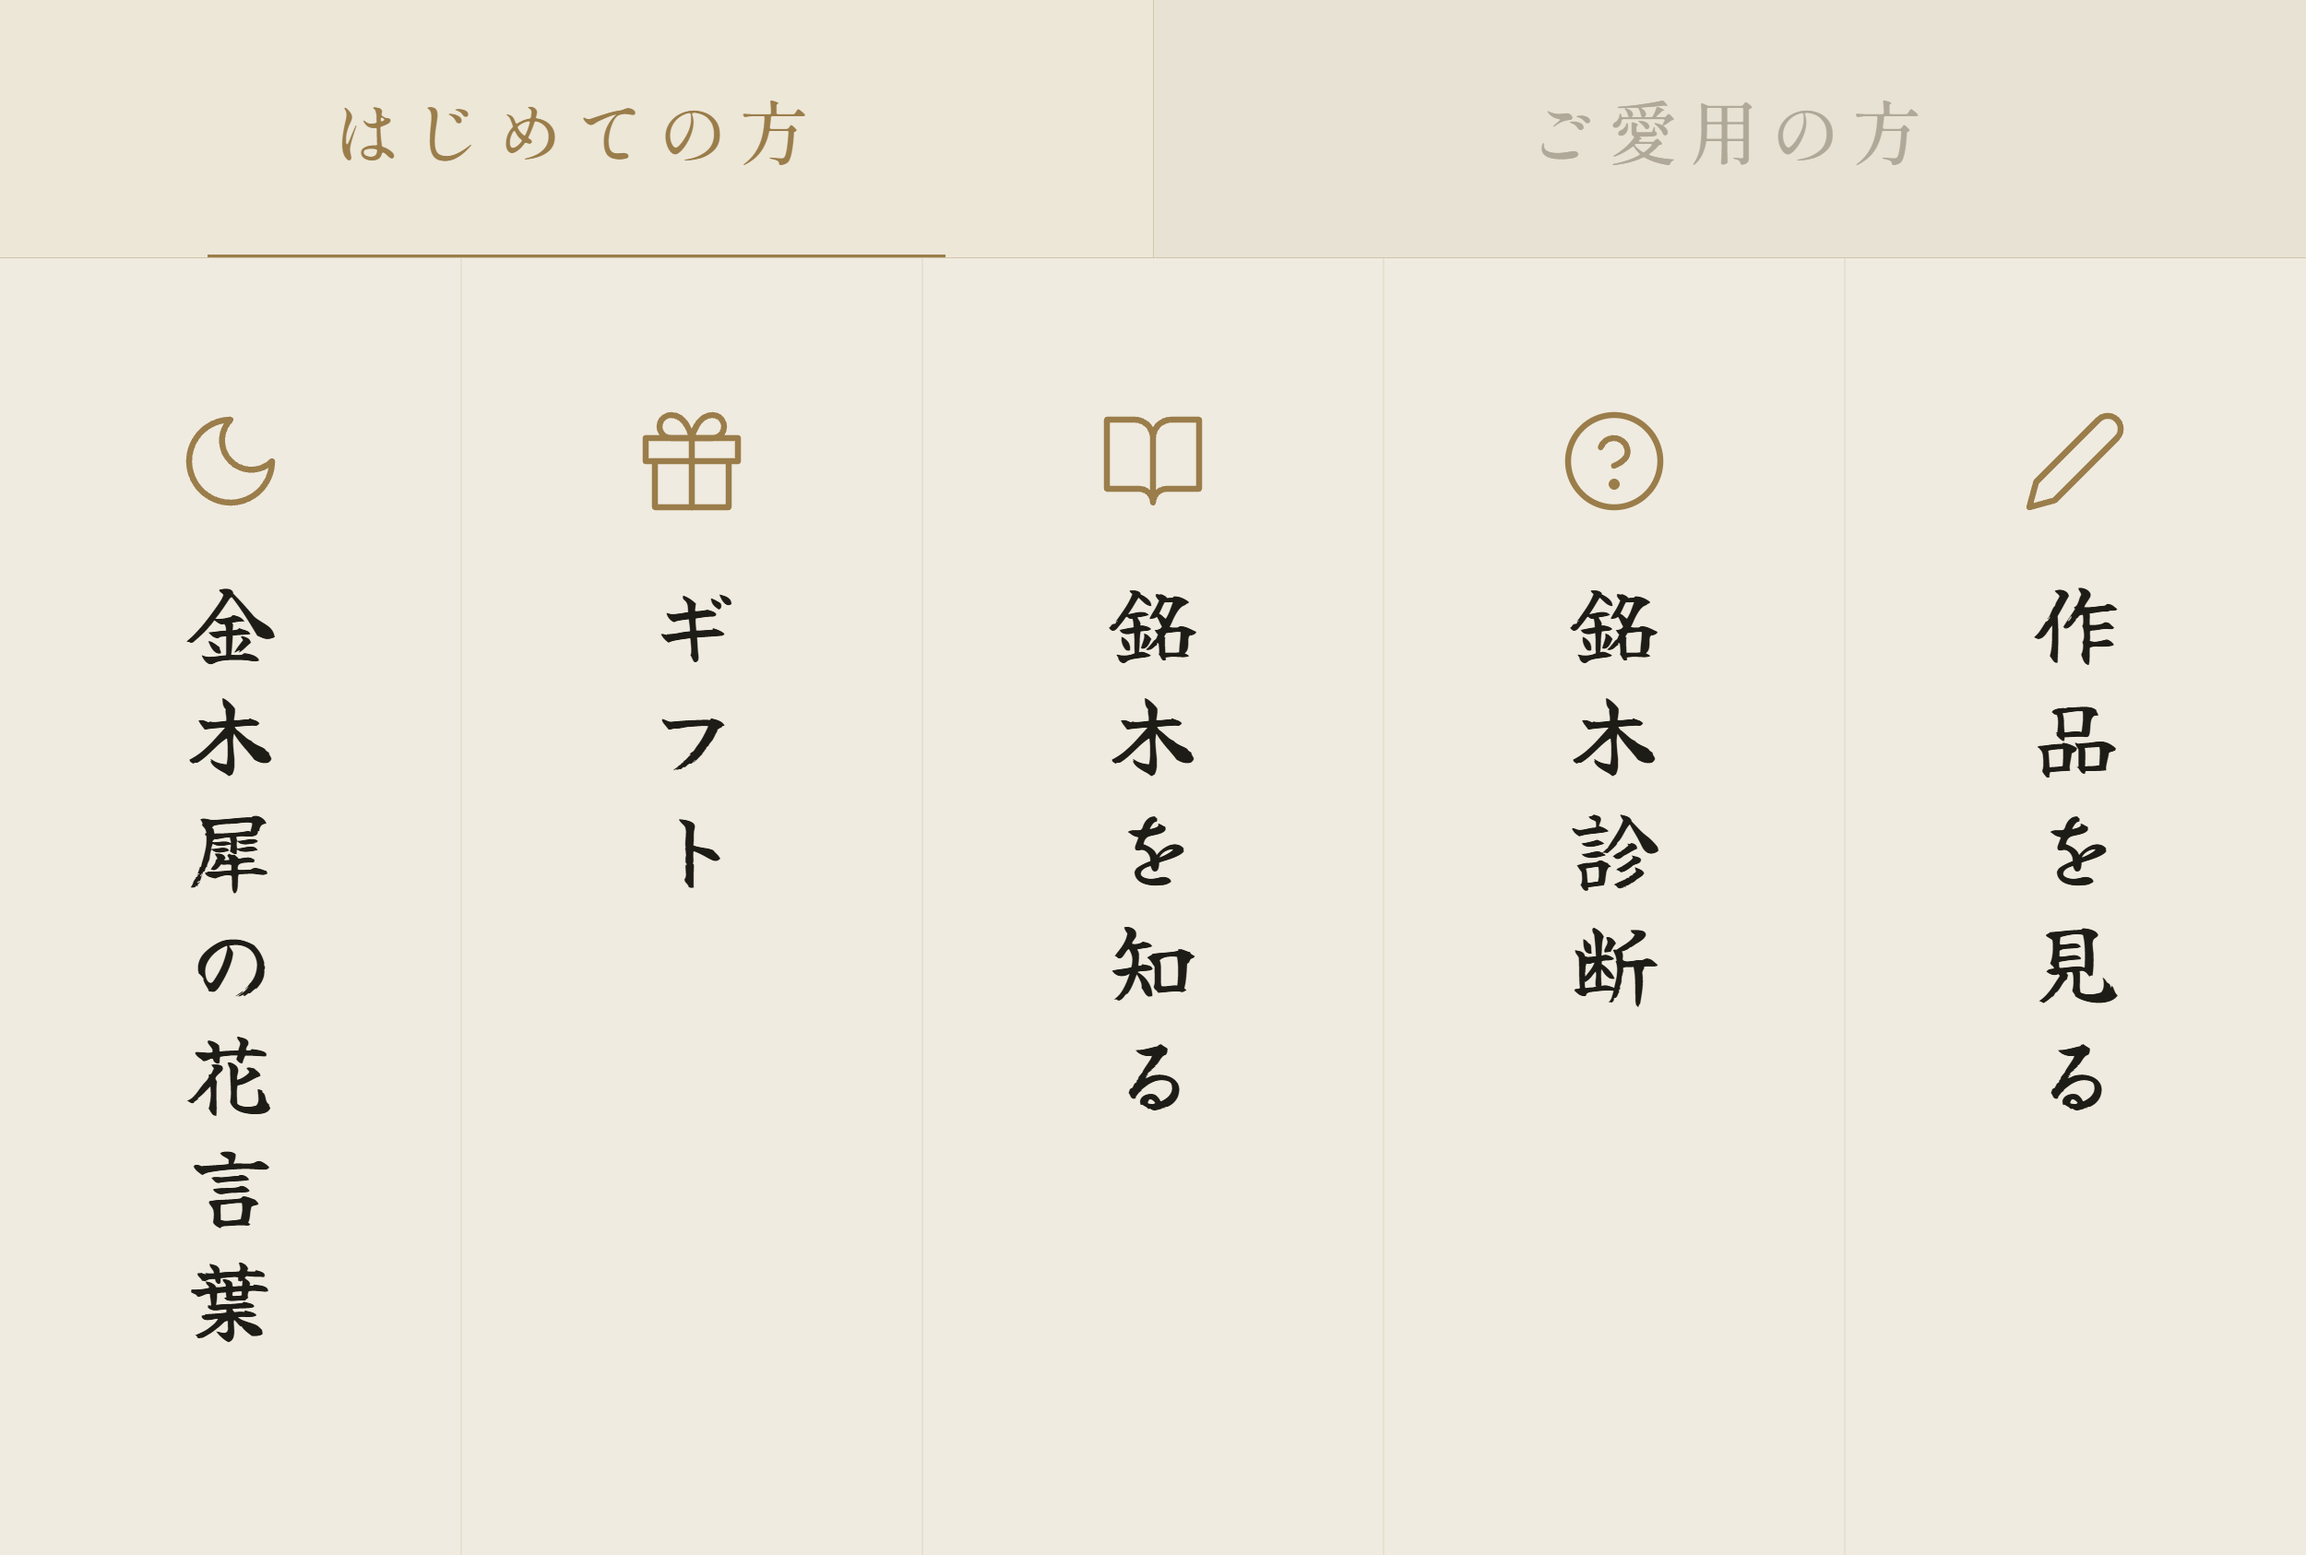
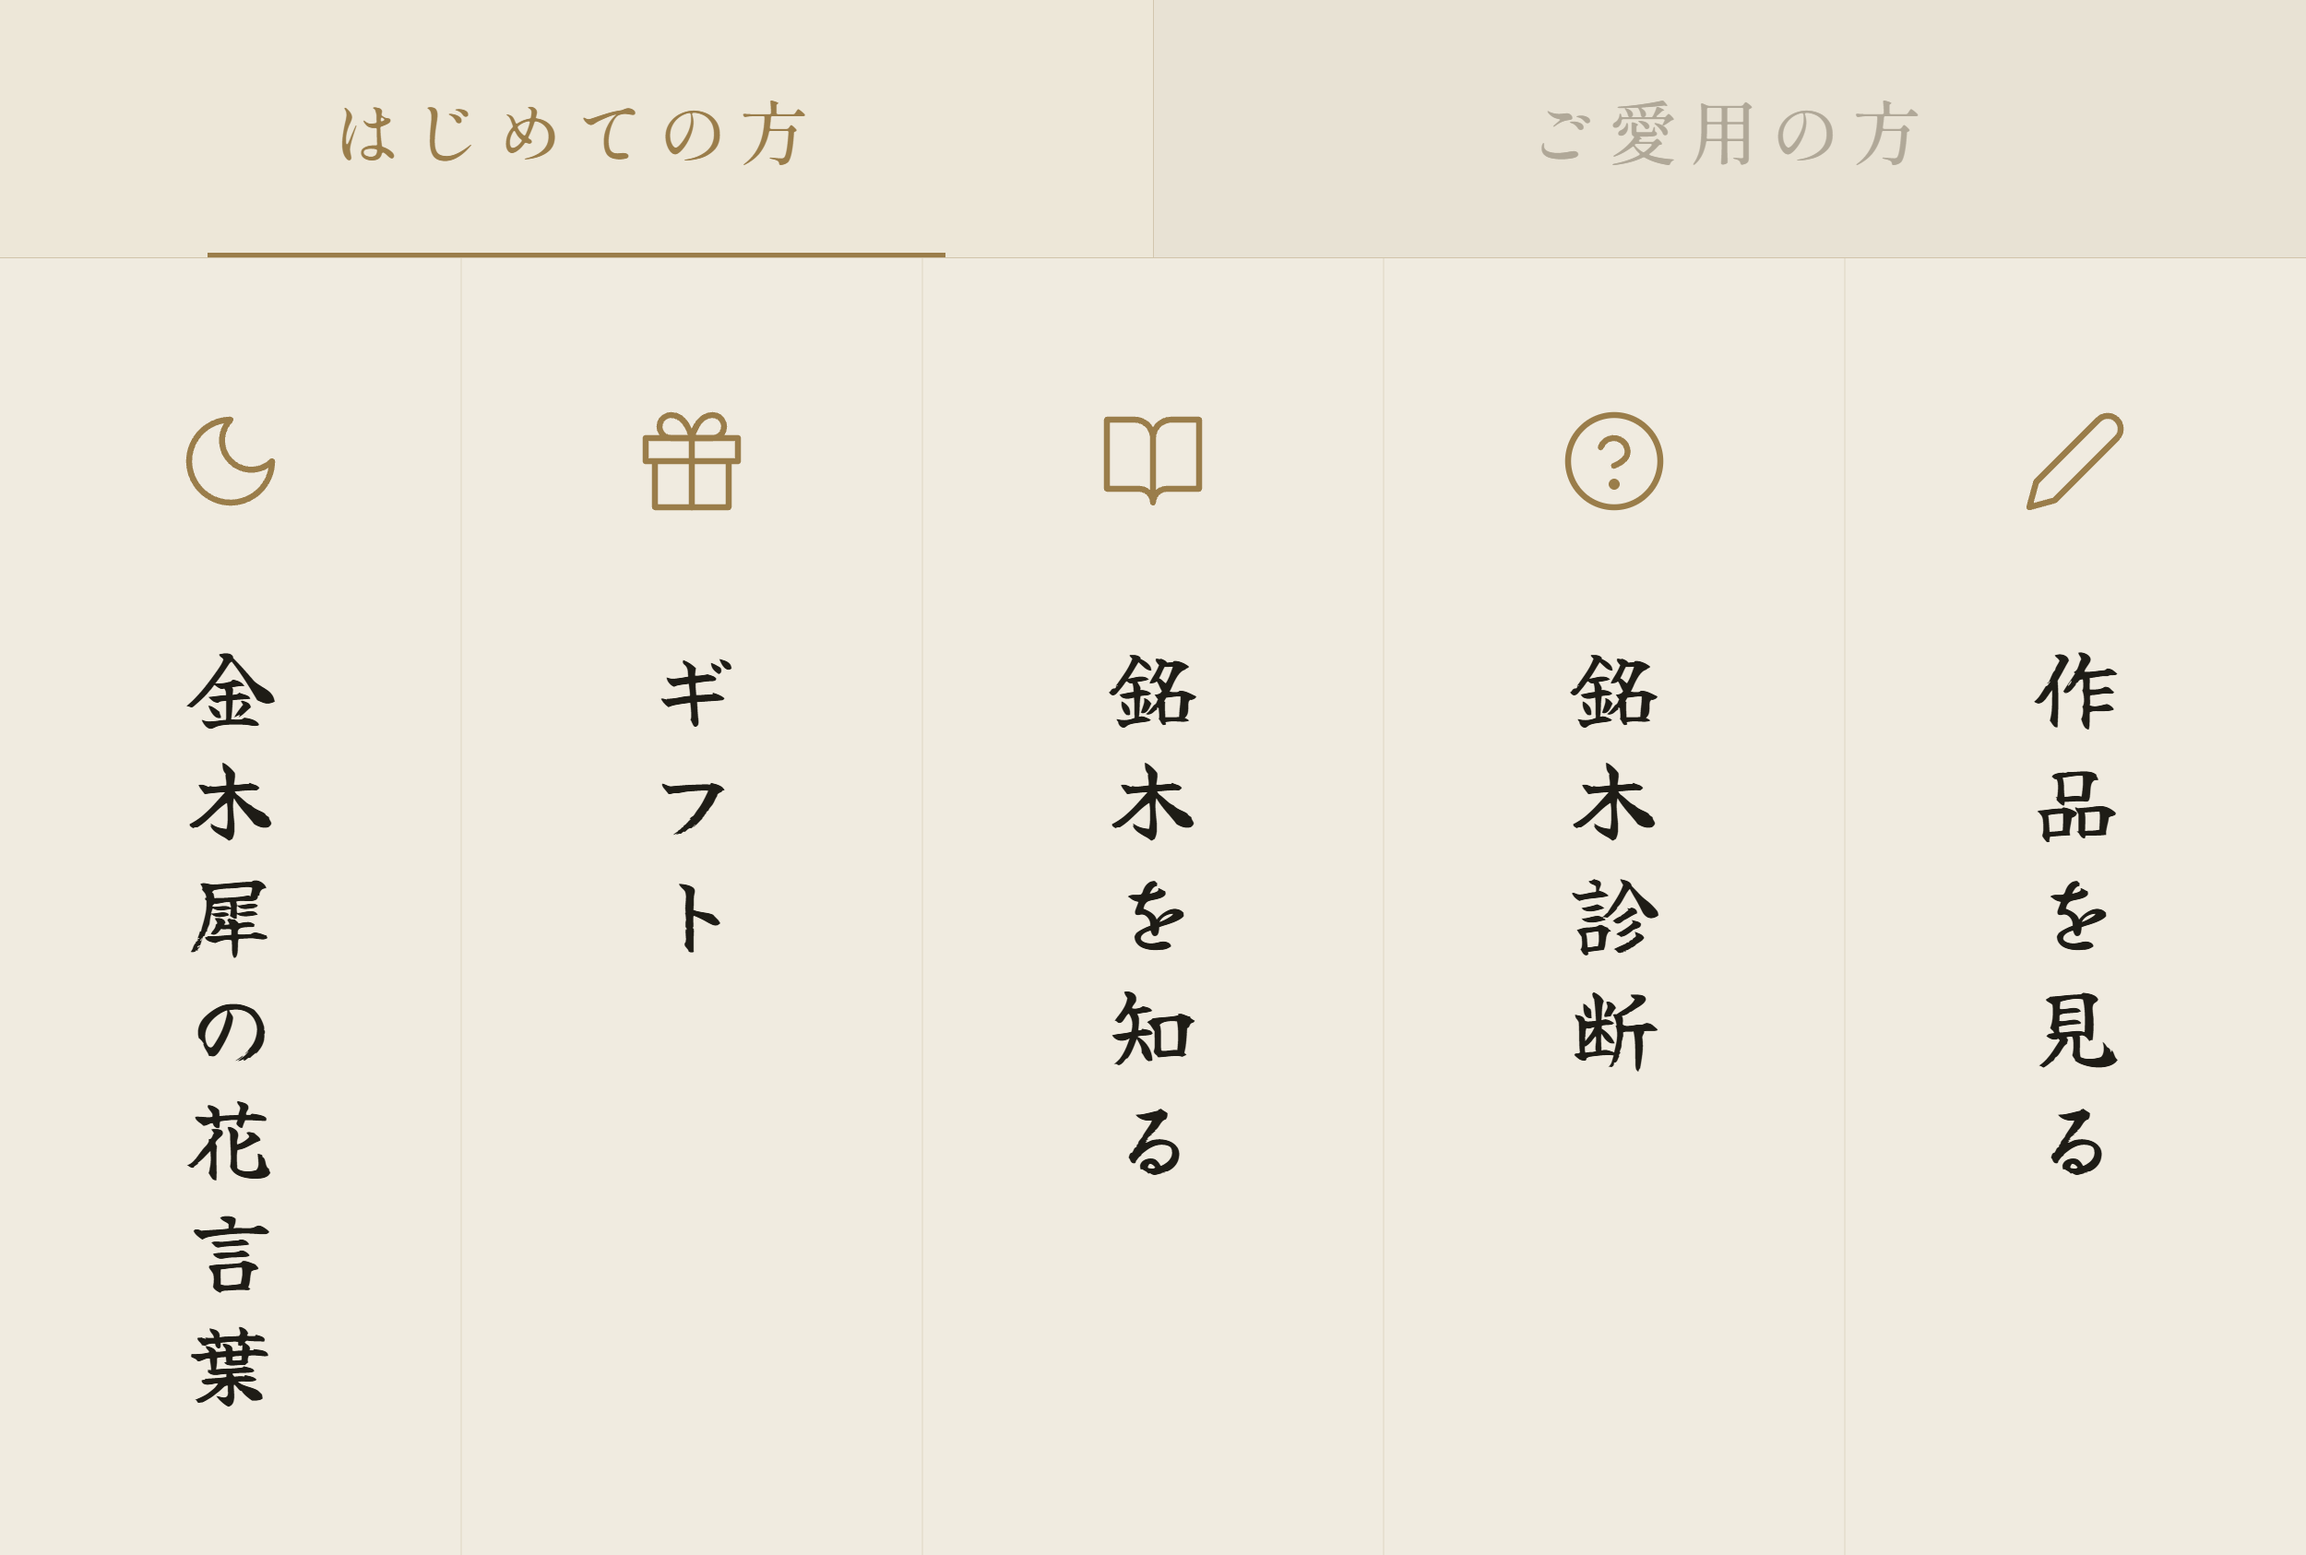
design: Tab B アイコン輝度アップ・新作を強調表示
- Tab B 全アイコン: stroke #9a7d4a → #e8d49a（漆黒背景での視認性向上）
- 新作アイコン: 120×120 → 150×150px（他列より一回り大）
- 新作テキスト: font-size 96 → 130, letter-spacing 26 → 36, fill #e8d49a（明るいゴールドで際立たせ）
- 重要度ヒエラルキー: 新作＞お手入れ・注文確認

diff --git a/designs/richmenu-tab-b.html b/designs/richmenu-tab-b.html
@@ -24,7 +24,7 @@ body {
 .tab.inactive { color: rgba(224,204,160,0.38); background: transparent; }
 .tab.active::after {
   content: ''; position: absolute; bottom: 0; left: 18%; right: 18%;
-  height: 3px; background: #9a7d4a;
+  height: 5px; background: #9a7d4a;
 }
 .tab-sep { width: 1px; background: rgba(154,125,74,0.28); align-self: stretch; }
 </style>
@@ -59,38 +59,38 @@ body {
     <!-- Col 1: お手入れ (cx=417) -->
     <g transform="translate(417,220)">
       <svg x="-60" y="-60" width="120" height="120" viewBox="0 0 24 24"
-           fill="none" stroke="#9a7d4a" stroke-width="1.3" stroke-linecap="round" stroke-linejoin="round">
+           fill="none" stroke="#e8d49a" stroke-width="1.3" stroke-linecap="round" stroke-linejoin="round">
         <path d="M12 22s8-4 8-10V5l-8-3-8 3v7c0 6 8 10 8 10z"/>
         <path d="M9 12l2 2 4-4"/>
       </svg>
     </g>
-    <text x="417" y="350" writing-mode="vertical-rl" text-anchor="start"
+    <text x="417" y="420" writing-mode="vertical-rl" text-anchor="start"
           font-family="'Yuji Syuku','Shippori Mincho B1','Yu Mincho',serif"
           font-size="96" letter-spacing="26" fill="#e0d4b8">お手入れ</text>
 
     <!-- Col 2: 注文確認 (cx=1250) -->
     <g transform="translate(1250,220)">
       <svg x="-60" y="-60" width="120" height="120" viewBox="0 0 24 24"
-           fill="none" stroke="#9a7d4a" stroke-width="1.3" stroke-linecap="round" stroke-linejoin="round">
+           fill="none" stroke="#e8d49a" stroke-width="1.3" stroke-linecap="round" stroke-linejoin="round">
         <path d="M20 7H4a2 2 0 00-2 2v10a2 2 0 002 2h16a2 2 0 002-2V9a2 2 0 00-2-2z"/>
         <path d="M16 3h-8a2 2 0 00-2 2v2h12V5a2 2 0 00-2-2z"/>
         <path d="M9 13h6M9 17h4"/>
       </svg>
     </g>
-    <text x="1250" y="350" writing-mode="vertical-rl" text-anchor="start"
+    <text x="1250" y="420" writing-mode="vertical-rl" text-anchor="start"
           font-family="'Yuji Syuku','Shippori Mincho B1','Yu Mincho',serif"
           font-size="96" letter-spacing="26" fill="#e0d4b8">注文確認</text>
 
-    <!-- Col 3: 新作 (cx=2083) -->
-    <g transform="translate(2083,220)">
-      <svg x="-60" y="-60" width="120" height="120" viewBox="0 0 24 24"
-           fill="none" stroke="#9a7d4a" stroke-width="1.3" stroke-linecap="round" stroke-linejoin="round">
+    <!-- Col 3: 新作 (cx=2083) — 強調: 大きめアイコン・大きめテキスト・明るいゴールド -->
+    <g transform="translate(2083,210)">
+      <svg x="-75" y="-75" width="150" height="150" viewBox="0 0 24 24"
+           fill="none" stroke="#e8d49a" stroke-width="1.3" stroke-linecap="round" stroke-linejoin="round">
         <polygon points="12 2 15.09 8.26 22 9.27 17 14.14 18.18 21.02 12 17.77 5.82 21.02 7 14.14 2 9.27 8.91 8.26 12 2"/>
       </svg>
     </g>
-    <text x="2083" y="350" writing-mode="vertical-rl" text-anchor="start"
+    <text x="2083" y="420" writing-mode="vertical-rl" text-anchor="start"
           font-family="'Yuji Syuku','Shippori Mincho B1','Yu Mincho',serif"
-          font-size="96" letter-spacing="26" fill="#e0d4b8">新作</text>
+          font-size="130" letter-spacing="36" fill="#e8d49a">新作</text>
   </svg>
 
 </div>
